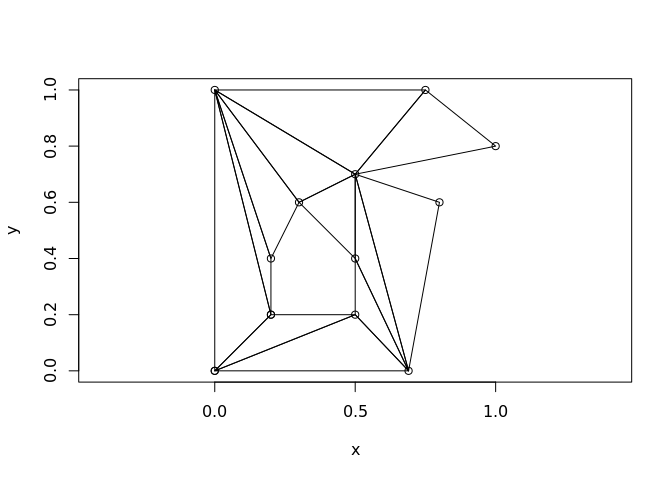
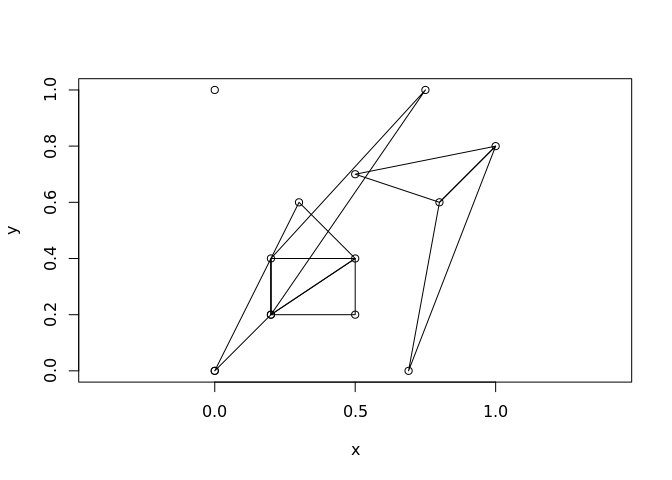
docs

diff --git a/docs/reference/earcut.html b/docs/reference/earcut.html
@@ -123,7 +123,7 @@
       <span class='fl'>0.2</span>, <span class='fl'>0.4</span>, <span class='fl'>0.6</span>, <span class='fl'>0.4</span>, <span class='fl'>0.2</span>)
 <span class='no'>ind</span> <span class='kw'>&lt;-</span> <span class='fu'>earcut</span>(<span class='no'>x</span>, <span class='no'>y</span>, <span class='kw'>holes</span> <span class='kw'>=</span> <span class='fl'>9</span>, <span class='kw'>numholes</span> <span class='kw'>=</span> <span class='fl'>1</span>)
 <span class='fu'>plot</span>(<span class='no'>x</span>, <span class='no'>y</span>, <span class='kw'>asp</span> <span class='kw'>=</span> <span class='fl'>1</span>)</div><div class='input'><span class='no'>xy</span> <span class='kw'>&lt;-</span> <span class='fu'>cbind</span>(<span class='no'>x</span>, <span class='no'>y</span>)
-<span class='fu'>apply</span>(<span class='fu'>matrix</span>(<span class='no'>ind</span>, <span class='fl'>3</span>), <span class='fl'>2</span>, <span class='kw'>function</span>(<span class='no'>i</span>) <span class='fu'>polygon</span>(<span class='no'>xy</span>[<span class='no'>i</span> + <span class='fl'>1</span>, ]))</div><div class='img'><img src='earcut-3.png' alt='' width='700' height='432.632880098887' /></div><div class='output co'>#&gt; NULL</div><div class='input'><span class='co'>## add another hole</span>
+<span class='fu'>apply</span>(<span class='fu'>matrix</span>(<span class='no'>ind</span>, <span class='fl'>3</span>), <span class='fl'>2</span>, <span class='kw'>function</span>(<span class='no'>i</span>) <span class='fu'>polygon</span>(<span class='no'>xy</span>[<span class='no'>i</span> + <span class='fl'>1</span>, ]))</div><div class='img'><img src='earcut-7.png' alt='' width='700' height='432.632880098887' /></div><div class='output co'>#&gt; NULL</div><div class='input'><span class='co'>## add another hole</span>
 <span class='no'>x</span> <span class='kw'>&lt;-</span> <span class='fu'>c</span>(<span class='fl'>0</span>, <span class='fl'>0</span>, <span class='fl'>0.75</span>, <span class='fl'>1</span>, <span class='fl'>0.5</span>, <span class='fl'>0.8</span>, <span class='fl'>0.69</span>, <span class='fl'>0</span>, <span class='fl'>0.2</span>,
       <span class='fl'>0.5</span>, <span class='fl'>0.5</span>, <span class='fl'>0.3</span>, <span class='fl'>0.2</span>, <span class='fl'>0.2</span>,
       <span class='fl'>0.15</span>, <span class='fl'>0.23</span>, <span class='fl'>0.2</span>)
@@ -132,7 +132,7 @@
       <span class='fl'>0.65</span>, <span class='fl'>0.65</span>, <span class='fl'>0.81</span>)
 <span class='no'>ind</span> <span class='kw'>&lt;-</span> <span class='fu'>earcut</span>(<span class='no'>x</span>, <span class='no'>y</span>, <span class='kw'>holes</span> <span class='kw'>=</span> <span class='fu'>c</span>(<span class='fl'>9</span>, <span class='fl'>14</span>), <span class='kw'>numholes</span> <span class='kw'>=</span> <span class='fl'>2</span>)
 <span class='fu'>plot</span>(<span class='no'>x</span>, <span class='no'>y</span>, <span class='kw'>asp</span> <span class='kw'>=</span> <span class='fl'>1</span>)</div><div class='input'><span class='no'>xy</span> <span class='kw'>&lt;-</span> <span class='fu'>cbind</span>(<span class='no'>x</span>, <span class='no'>y</span>)
-<span class='fu'>apply</span>(<span class='fu'>matrix</span>(<span class='no'>ind</span>, <span class='fl'>3</span>), <span class='fl'>2</span>, <span class='kw'>function</span>(<span class='no'>i</span>) <span class='fu'>polygon</span>(<span class='no'>xy</span>[<span class='no'>i</span> + <span class='fl'>1</span>, ]))</div><div class='img'><img src='earcut-4.png' alt='' width='700' height='432.632880098887' /></div><div class='output co'>#&gt; NULL</div></pre>
+<span class='fu'>apply</span>(<span class='fu'>matrix</span>(<span class='no'>ind</span>, <span class='fl'>3</span>), <span class='fl'>2</span>, <span class='kw'>function</span>(<span class='no'>i</span>) <span class='fu'>polygon</span>(<span class='no'>xy</span>[<span class='no'>i</span> + <span class='fl'>1</span>, ]))</div><div class='img'><img src='earcut-8.png' alt='' width='700' height='432.632880098887' /></div><div class='output co'>#&gt; NULL</div></pre>
   </div>
   <div class="col-md-3 hidden-xs hidden-sm" id="sidebar">
     <h2>Contents</h2>

diff --git a/docs/index.html b/docs/index.html
@@ -63,7 +63,7 @@
 <div class="page-header"><h1 class="hasAnchor">
 <a href="#decido" class="anchor"></a>decido</h1></div>
 <p>The goal of decido is to provide an R binding to the Mapbox library <a href="https://github.com/mapbox/earcut.hpp">earcut.hpp</a> for constrained polygon triangulation.</p>
-<p>Ear cutting (or ear clipping) applies constrained triangulation by successively ‘cutting’ triangles from a polygon defined by path/s. Holes are supported by introducing a bridge segment between polygon paths. The earcut library works with single-island-with-holes form polygons, analogous to the POLYGON type in simple features.</p>
+<p>Ear cutting (or ear clipping) applies constrained triangulation by successively ‘cutting’ triangles from a polygon defined by path/s. Holes are supported, the earcut library works with single-island-with-holes form polygons, analogous to the POLYGON type in simple features.</p>
 <p>This augments the Javascript version available in <a href="https://github.com/hypertidy/rearcut.git">rearcut</a> (also an R wrapper of the JS version by Mapbox). No comparison or testing has yet been done to compare these implementations.</p>
 <p>In comparison to path-based ear-clipping, other libraries ‘Triangle’ and ‘CGAL’ provide edge-based <em>mostly Delaunay</em> triangulation. The Triangle library is available in the R package <a href="https://CRAN.r-project.org/package=RTriangle">RTriangle</a>. Experimental implementations binding CGAL are in <a href="https://github.com/s-u/rcgal">rcgal</a> and <a href="https://github.com/hypertidy/laridae">laridae</a>.</p>
 <div id="installation" class="section level2">
@@ -136,6 +136,7 @@ xy &lt;-<span class="st"> </span><span class="kw">cbind</span>(ring<span class="
 <a href="#beware" class="anchor"></a>Beware!</h2>
 <p>This is in active development and the functions will change.</p>
 <p>No checking is done on input coordinates, so use at your own risk!</p>
+<hr>
 <p>Please note that this project is released with a <a href="CODE_OF_CONDUCT.md">Contributor Code of Conduct</a>. By participating in this project you agree to abide by its terms.</p>
 </div>
 </div>

diff --git a/README.md b/README.md
@@ -7,7 +7,7 @@ decido
 
 The goal of decido is to provide an R binding to the Mapbox library [earcut.hpp](https://github.com/mapbox/earcut.hpp) for constrained polygon triangulation.
 
-Ear cutting (or ear clipping) applies constrained triangulation by successively 'cutting' triangles from a polygon defined by path/s. Holes are supported by introducing a bridge segment between polygon paths. The earcut library works with single-island-with-holes form polygons, analogous to the POLYGON type in simple features.
+Ear cutting (or ear clipping) applies constrained triangulation by successively 'cutting' triangles from a polygon defined by path/s. Holes are supported, the earcut library works with single-island-with-holes form polygons, analogous to the POLYGON type in simple features.
 
 This augments the Javascript version available in [rearcut](https://github.com/hypertidy/rearcut.git) (also an R wrapper of the JS version by Mapbox). No comparison or testing has yet been done to compare these implementations.
 
